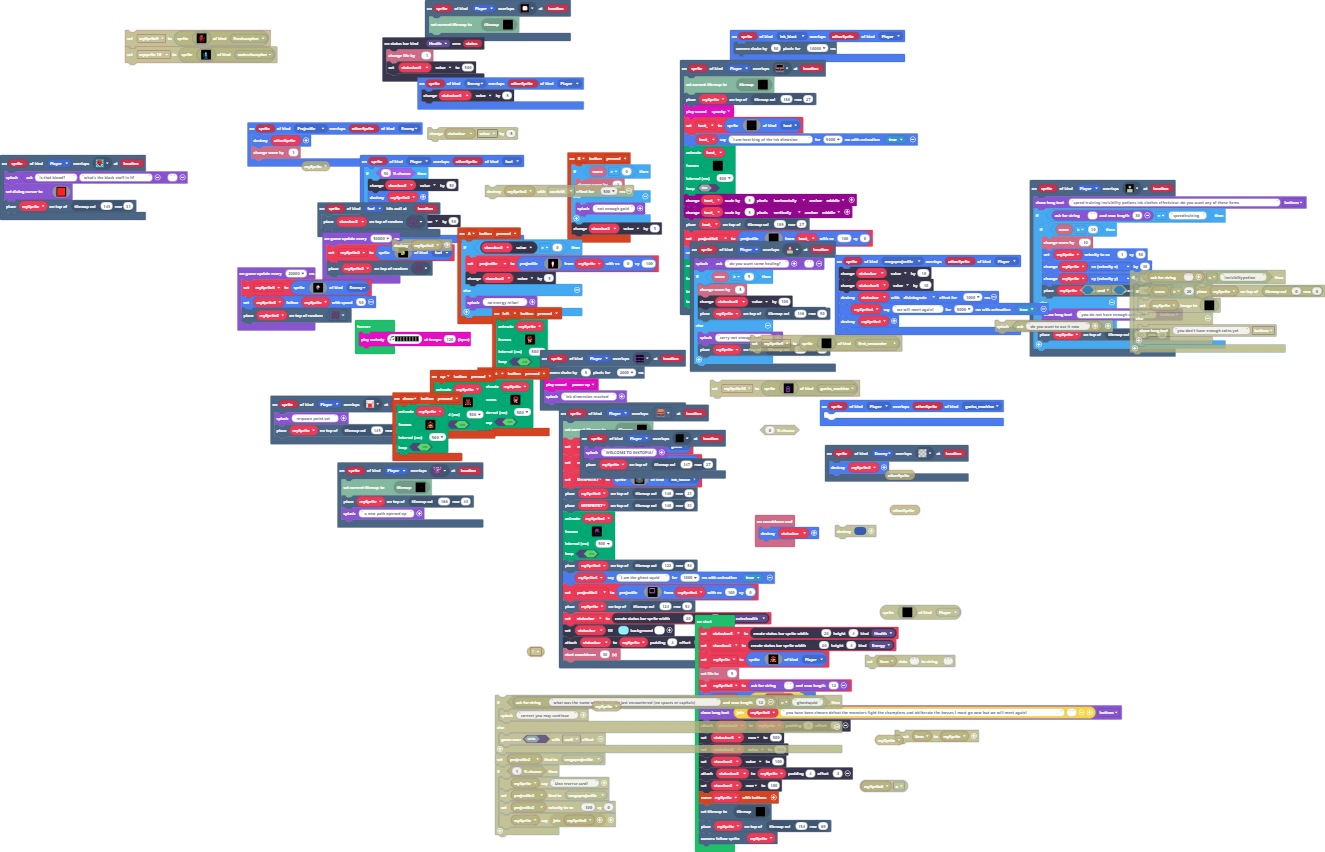
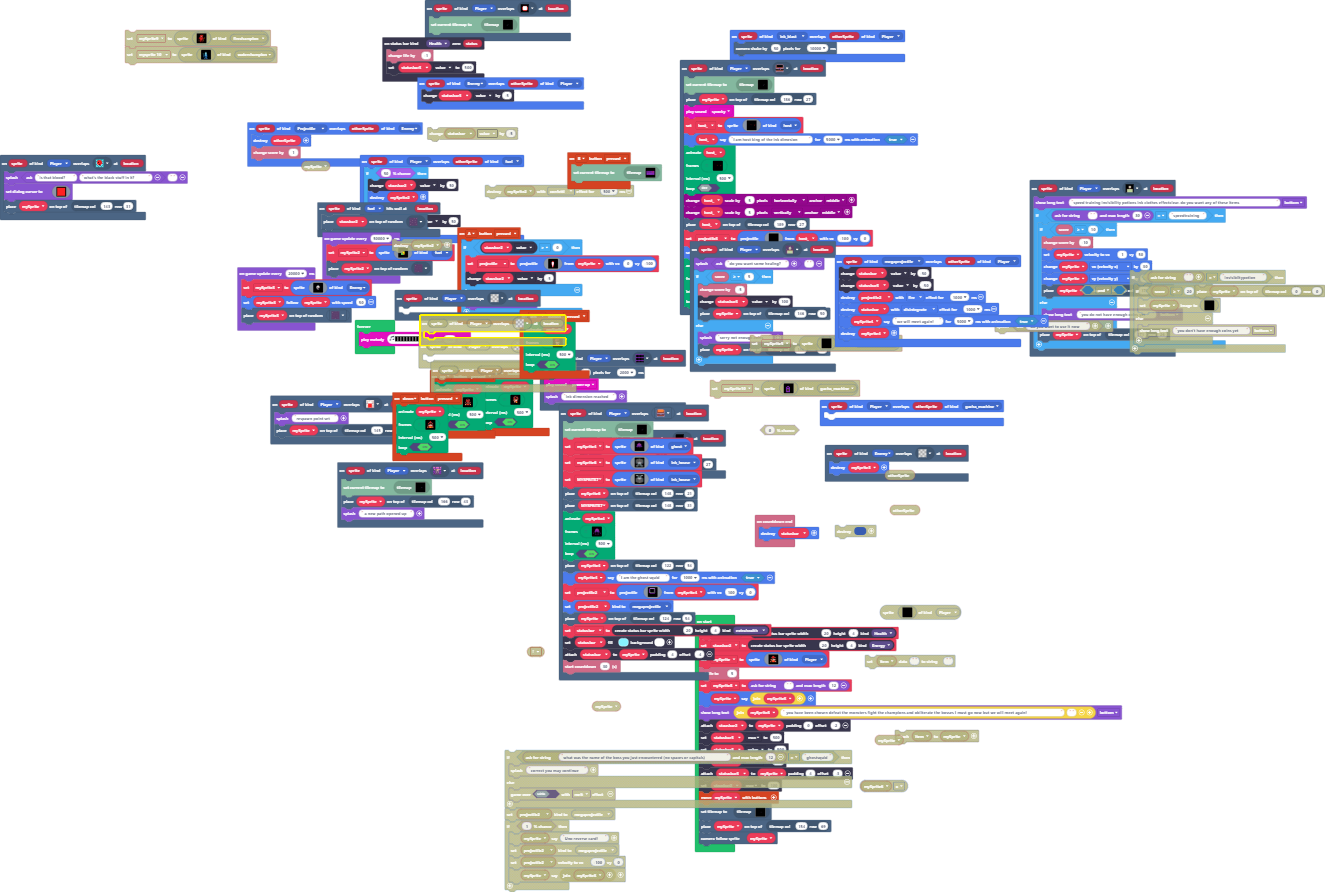
inventory/menu added

Changed region(s): [[0.1547, 0.0, 1.0, 1.0], [0.0, 0.1526, 0.1547, 0.2746], [0.0928, 0.0305, 0.2166, 0.0915]]

diff --git a/tilemap.g.ts b/tilemap.g.ts
@@ -84,6 +84,18 @@ namespace myTiles {
     export const tile39 = image.ofBuffer(hex``);
     //% fixedInstance jres blockIdentity=images._tile
     export const tile40 = image.ofBuffer(hex``);
+    //% fixedInstance jres blockIdentity=images._tile
+    export const tile41 = image.ofBuffer(hex``);
+    //% fixedInstance jres blockIdentity=images._tile
+    export const tile43 = image.ofBuffer(hex``);
+    //% fixedInstance jres blockIdentity=images._tile
+    export const tile44 = image.ofBuffer(hex``);
+    //% fixedInstance jres blockIdentity=images._tile
+    export const tile45 = image.ofBuffer(hex``);
+    //% fixedInstance jres blockIdentity=images._tile
+    export const tile46 = image.ofBuffer(hex``);
+    //% fixedInstance jres blockIdentity=images._tile
+    export const tile47 = image.ofBuffer(hex``);
 
     helpers._registerFactory("tilemap", function(name: string) {
         switch(helpers.stringTrim(name)) {
@@ -563,6 +575,14 @@ namespace myTiles {
 ...........................................................................................................2..2................................................................................................................................................
 ...........................................................................................................2..2................................................................................................................................................
 `, [myTiles.transparency16,myTiles.tile2,myTiles.tile3,myTiles.tile8,myTiles.tile9,myTiles.tile10,myTiles.tile11,myTiles.tile12,myTiles.tile14,myTiles.tile15,myTiles.tile16,myTiles.tile24,myTiles.tile25,myTiles.tile26,myTiles.tile27,myTiles.tile28,myTiles.tile29,myTiles.tile30,myTiles.tile18,myTiles.tile35,myTiles.tile37,sprites.dungeon.floorLight4,sprites.dungeon.darkGroundCenter,sprites.dungeon.floorLight0,sprites.dungeon.doorLockedEast,sprites.dungeon.purpleSwitchUp,sprites.dungeon.darkGroundNorthWest0,sprites.dungeon.darkGroundWest,sprites.dungeon.darkGroundSouthWest0,sprites.dungeon.darkGroundNorth,sprites.dungeon.darkGroundSouth,sprites.dungeon.darkGroundEast,sprites.dungeon.greenInnerNorthWest,sprites.dungeon.purpleInnerSouthWest,sprites.dungeon.purpleInnerNorthEast,sprites.dungeon.greenInnerSouthEast,sprites.builtin.brick,sprites.dungeon.darkGroundSouthEast0,sprites.dungeon.darkGroundNorthEast0,sprites.castle.tilePath2,sprites.castle.tilePath8,sprites.castle.tilePath9,sprites.castle.tilePath6,sprites.castle.tilePath1,sprites.castle.tilePath4,sprites.castle.tilePath3], TileScale.Sixteen);
+            case "level9":
[1 lines of base64/hex data omitted]
+. . . . . . . . . . 
+. . . . . . . . . . 
+. . . . . . . . . . 
+. . . . . . . . . . 
+. . . . . . . . . . 
+`, [myTiles.transparency16,myTiles.tile41,myTiles.tile43,myTiles.tile44,myTiles.tile45,myTiles.tile46,myTiles.tile47], TileScale.Sixteen);
         }
         return null;
     })
@@ -652,6 +672,18 @@ namespace myTiles {
             case "tile39":return tile39;
             case "myTile38":
             case "tile40":return tile40;
+            case "myTile39":
+            case "tile41":return tile41;
+            case "myTile41":
+            case "tile43":return tile43;
+            case "myTile42":
+            case "tile44":return tile44;
+            case "myTile43":
+            case "tile45":return tile45;
+            case "myTile44":
+            case "tile46":return tile46;
+            case "myTile45":
+            case "tile47":return tile47;
         }
         return null;
     })

diff --git a/main.ts b/main.ts
@@ -94,12 +94,7 @@ controller.up.onEvent(ControllerButtonEvent.Pressed, function () {
     )
 })
 controller.B.onEvent(ControllerButtonEvent.Pressed, function () {
-    if (info.score() > 0) {
-        info.changeScoreBy(-1)
-    } else {
-        game.splash("not enough gold")
-    }
-    stausbar2.value += 5
+    tiles.loadMap(tiles.createMap(tilemap`level9`))
 })
 scene.onOverlapTile(SpriteKind.Player, assets.tile`myTile34`, function (sprite, location) {
     scene.cameraShake(5, 2000)
@@ -1015,6 +1010,7 @@ scene.onOverlapTile(SpriteKind.Player, assets.tile`myTile2`, function (sprite, l
         . . . . . . . . . . . . . . . . 
         . . . . . . . . . . . . . . . . 
         `, mySprite4, 100, 0)
+    projectile2.setKind(SpriteKind.megaprojectile)
     tiles.placeOnTile(mySprite, tiles.getTileLocation(124, 54))
     statusbar = statusbars.create(20, 4, StatusBarKind.extrahealth)
     statusbar.setColor(9, 1)
@@ -1022,8 +1018,9 @@ scene.onOverlapTile(SpriteKind.Player, assets.tile`myTile2`, function (sprite, l
     info.startCountdown(30)
 })
 sprites.onOverlap(SpriteKind.megaprojectile, SpriteKind.Player, function (sprite, otherSprite) {
-    statusbar.value += -10
-    statusbar3.value += -10
+    statusbar.value += -50
+    statusbar3.value += -50
+    projectile2.destroy(effects.fire, 1000)
     statusbar.destroy(effects.disintegrate, 1000)
     mySprite4.sayText("we will meet again!", 5000, true)
     mySprite4.destroy()
@@ -1035,6 +1032,9 @@ scene.onOverlapTile(SpriteKind.Player, sprites.dungeon.purpleSwitchUp, function 
 })
 scene.onOverlapTile(SpriteKind.Enemy, assets.tile`transparency16`, function (sprite, location) {
     mySprite3.destroy()
+})
+scene.onOverlapTile(SpriteKind.Player, assets.tile`transparency16`, function (sprite, location) {
+	
 })
 scene.onHitWall(SpriteKind.fuel, function (sprite, location) {
     tiles.placeOnRandomTile(stausbar2, sprites.dungeon.darkGroundCenter)
